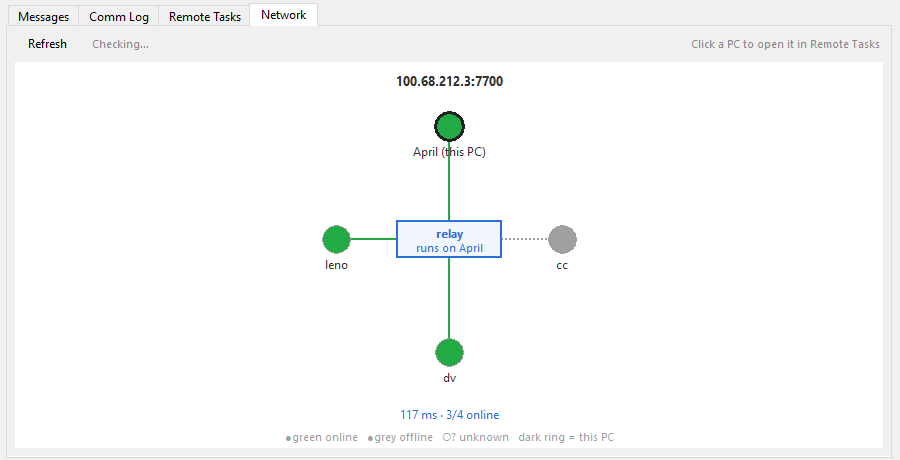
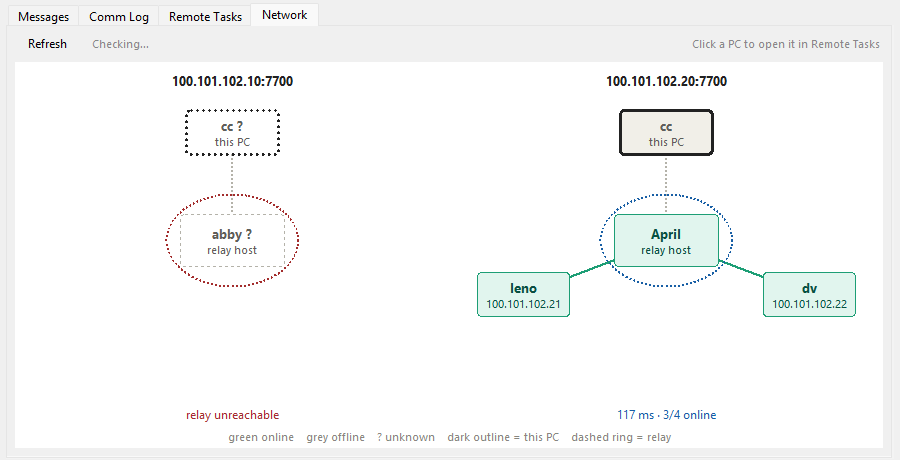
feat(tray): draw the relay's host PC once, in the middle of the Network tab
The relay is a program on one of the peers, so that PC now sits in the centre,
labelled relay host and circled by a dashed relay ring, instead of a separate relay
box plus the same PC again in the ring. Nodes are rounded cards on an oval ring.
Docs and screenshot updated; the screenshot uses placeholder IPs.

Also give the tray its own AppUserModelID, so the taskbar shows the Herald icon
instead of pythonw.exe's Python icon.

diff --git a/herald_tray.py b/herald_tray.py
@@ -103,6 +103,28 @@ def relay_host(net: dict, probe: dict, ips: dict) -> str | None:
     return next((peer for peer, addr in ips.items() if addr == ip), None)
 
 
+# Network tab palette: (fill, outline, text) per node state
+NODE = {"online": ("#E1F5EE", "#1D9E75", "#085041"),
+        "offline": ("#F1EFE8", "#B4B2A9", "#5F5E5A"),
+        "unknown": ("#FFFFFF", "#B4B2A9", "#5F5E5A")}
+INK, MUTED, RELAY, DOWN = "#222222", "#888780", "#185FA5", "#A32D2D"
+
+
+def split_members(net: dict, host_pc: str | None) -> tuple:
+    """(center, around): the relay host sits in the middle and is not drawn again in the ring."""
+    members = [net["name"]] + [p for p in net.get("peers", []) if p != net["name"]]
+    if not host_pc:
+        return None, members
+    return host_pc, [p for p in members if p != host_pc]
+
+
+def round_rect(c, x0, y0, x1, y1, r, **kw):
+    """Rounded rectangle on a tk Canvas (smoothed polygon; tk has no native one)."""
+    pts = [x0 + r, y0, x1 - r, y0, x1, y0, x1, y0 + r, x1, y1 - r, x1, y1,
+           x1 - r, y1, x0 + r, y1, x0, y1, x0, y1 - r, x0, y0 + r, x0, y0]
+    return c.create_polygon(pts, smooth=True, **kw)
+
+
 def node_state(peer: str, probe: dict) -> str:
     """online / offline from the relay's subscriber list; unknown when the relay can't tell us."""
     if probe["online"] is None:
@@ -204,11 +226,17 @@ class HeraldWindow:
         self.msg_queue = msg_queue
         self.project_dir = str(Path(__file__).parent)
 
+        # Own taskbar identity: without it Windows groups the window under pythonw.exe and shows Python's icon.
+        try:
+            import ctypes
+            ctypes.windll.shell32.SetCurrentProcessExplicitAppUserModelID("Herald.Tray")
+        except (AttributeError, OSError):
+            pass
         self.root = tk.Tk()
         self.root.title(f"Herald — {self.peer_name}")
         _ico = Path(__file__).parent / "img" / "logo.ico"
         if _ico.exists():
-            self.root.iconbitmap(str(_ico))
+            self.root.iconbitmap(default=str(_ico))   # default= also covers the taskbar's large icon
         self.root.geometry("720x520")
         self.root.minsize(600, 400)
         self.root.protocol("WM_DELETE_WINDOW", self.hide)
@@ -486,57 +514,65 @@ class HeraldWindow:
         if not self._net_probes or w < 50:
             return
         col = w / len(self._net_probes)
-        ring = max(40, min(col * 0.32, (h - 160) / 2))   # leaves room for labels + status line
+        # an oval ring: wider than tall, so side nodes clear the relay ring around the center
+        rx, ry = max(100, min(col * 0.38, 220)), max(60, (h - 170) / 2)
         ips = self.cfg.get("ips", {})
-        green, grey, red, blue, text = "#22aa44", "#a0a0a0", "#cc3333", "#2a6fdb", "#333333"
 
         for i, (net, probe) in enumerate(self._net_probes):
-            cx, cy = col * i + col / 2, 64 + ring
-            host = net["server_url"].split("//")[-1]
-            c.create_text(cx, 18, text=host, fill=text, font=("Segoe UI", 10, "bold"))
-            members = [net["name"]] + [p for p in net.get("peers", []) if p != net["name"]]
-
-            for j, peer in enumerate(members):
-                a = 2 * math.pi * j / len(members) - math.pi / 2
-                x, y = cx + ring * math.cos(a), cy + ring * math.sin(a)
-                state = node_state(peer, probe)
-                c.create_line(cx, cy, x, y, fill=green if state == "online" else grey,
-                              dash=() if state == "online" else (3, 3), width=2)
-                tag = f"peer-{i}-{j}"
-                c.create_oval(x - 14, y - 14, x + 14, y + 14, tags=tag,
-                              fill={"online": green, "offline": grey}.get(state, "#ffffff"),
-                              outline="#222222" if peer == net["name"] else grey,
-                              width=3 if peer == net["name"] else 1)
-                if state == "unknown":
-                    c.create_text(x, y, text="?", fill=grey, font=("Segoe UI", 10, "bold"), tags=tag)
-                label = peer + (" (this PC)" if peer == net["name"] else "")
-                c.create_text(x, y + 25, text=label, fill=text, font=("Segoe UI", 9), tags=tag)
-                if ips.get(peer):
-                    c.create_text(x, y + 39, text=ips[peer], fill=grey, font=("Consolas", 8), tags=tag)
-                if peer != net["name"]:
-                    c.tag_bind(tag, "<Button-1>", lambda e, p=peer: self._open_in_tasks(p))
-                    c.tag_bind(tag, "<Enter>", lambda e: c.config(cursor="hand2"))
-                    c.tag_bind(tag, "<Leave>", lambda e: c.config(cursor=""))
-
-            # relay box goes on top of the spokes
-            # the relay is a program on one of the peers, not a separate box: name its host
-            colr = blue if probe["up"] else red
+            cx, cy = col * i + col / 2, 70 + ry
+            c.create_text(cx, 18, text=net["server_url"].split("//")[-1], fill=INK, font=("Segoe UI", 10, "bold"))
             host_pc = relay_host(net, probe, ips)
-            c.create_rectangle(cx - 52, cy - 18, cx + 52, cy + 18, fill="#f2f6fc", outline=colr,
-                               width=2, dash=() if probe["up"] else (4, 3))
-            c.create_text(cx, cy - (6 if host_pc else 0), text="relay", fill=colr, font=("Segoe UI", 9, "bold"))
-            if host_pc:
-                c.create_text(cx, cy + 8, text=f"runs on {host_pc}", fill=colr, font=("Segoe UI", 8))
+            center, around = split_members(net, host_pc)
+            relay_col = RELAY if probe["up"] else DOWN
+
+            for j, peer in enumerate(around):
+                a = 2 * math.pi * j / len(around) - math.pi / 2
+                x, y = cx + rx * math.cos(a), cy + ry * math.sin(a)
+                online = node_state(peer, probe) == "online"
+                c.create_line(cx, cy, x, y, fill=NODE["online"][1] if online else NODE["offline"][1],
+                              dash=() if online else (4, 4), width=2 if online else 1.5)
+            for j, peer in enumerate(around):
+                a = 2 * math.pi * j / len(around) - math.pi / 2
+                self._draw_node(c, cx + rx * math.cos(a), cy + ry * math.sin(a), peer, net, probe,
+                                ips.get(peer, ""), f"peer-{i}-{j}")
+
+            if center:
+                # the relay is a program on this PC, so the PC itself sits in the middle, ringed by the relay
+                c.create_oval(cx - 66, cy - 46, cx + 66, cy + 46, outline=relay_col, width=1.5, dash=(3, 3))
+                self._draw_node(c, cx, cy, center, net, probe, "relay host", f"host-{i}", big=True)
+            else:   # host unknown: say only that a relay is there
+                c.create_rectangle(cx - 40, cy - 16, cx + 40, cy + 16, fill="#ffffff", outline=relay_col,
+                                   width=2, dash=() if probe["up"] else (4, 3))
+                c.create_text(cx, cy, text="relay", fill=relay_col, font=("Segoe UI", 9, "bold"))
+
+            everyone = ([center] if center else []) + around
             if not probe["up"]:
                 status = "relay unreachable"
             elif probe["online"] is None:
                 status = f"{probe['ms']} ms · old relay, no peer list"
             else:
-                status = f"{probe['ms']} ms · {sum(p in probe['online'] for p in members)}/{len(members)} online"
-            c.create_text(cx, h - 34, text=status, fill=colr, font=("Segoe UI", 9))
+                status = f"{probe['ms']} ms · {sum(p in probe['online'] for p in everyone)}/{len(everyone)} online"
+            c.create_text(cx, h - 34, text=status, fill=relay_col, font=("Segoe UI", 9))
 
-        c.create_text(w / 2, h - 12, fill=grey, font=("Segoe UI", 8),
-                      text="●green online   ●grey offline   ○? unknown   dark ring = this PC")
+        c.create_text(w / 2, h - 12, fill=MUTED, font=("Segoe UI", 8),
+                      text="green online    grey offline    ? unknown    dark outline = this PC    dashed ring = relay")
+
+    def _draw_node(self, c, x, y, peer, net, probe, sub, tag, big=False):
+        state = node_state(peer, probe)
+        fill, edge, ink = NODE[state]
+        me = peer == net["name"]
+        hw, hh = (52, 26) if big else (46, 22)
+        round_rect(c, x - hw, y - hh, x + hw, y + hh, 9, tags=tag, fill=fill,
+                   outline=INK if me else edge, width=2.5 if me else 1, dash=(4, 3) if state == "unknown" else ())
+        name = peer + (" ?" if state == "unknown" else "")
+        sub = "this PC" if me and not big else (f"{sub} · this PC" if me else sub)
+        c.create_text(x, y - (7 if sub else 0), text=name, fill=ink, font=("Segoe UI", 10, "bold"), tags=tag)
+        if sub:
+            c.create_text(x, y + 9, text=sub, fill=ink, font=("Segoe UI", 8), tags=tag)
+        if not me:
+            c.tag_bind(tag, "<Button-1>", lambda e, p=peer: self._open_in_tasks(p))
+            c.tag_bind(tag, "<Enter>", lambda e: c.config(cursor="hand2"))
+            c.tag_bind(tag, "<Leave>", lambda e: c.config(cursor=""))
 
     def _open_in_tasks(self, peer: str):
         self._tasks_peer.set(peer)

diff --git a/test_networks.py b/test_networks.py
@@ -52,5 +52,10 @@ assert down == {"up": False, "ms": None, "online": None, "host": None}
 net = {"server_url": "http://100.104.102.15:7700"}
 assert herald_tray.relay_host(net, down, {"abby": "100.104.102.15"}) == "abby"       # down: IP lookup
 assert herald_tray.relay_host(net, down, {}) is None
+# The relay host is drawn once, in the middle, never again in the ring.
+april = {"name": "cc", "peers": ["April", "leno", "dv"]}
+assert herald_tray.split_members(april, "April") == ("April", ["cc", "leno", "dv"])
+assert herald_tray.split_members({"name": "April", "peers": ["cc"]}, "April") == ("April", ["cc"])
+assert herald_tray.split_members(april, None) == (None, ["cc", "April", "leno", "dv"])
 
 print("ok")

diff --git a/docs/system-tray-ui.md b/docs/system-tray-ui.md
@@ -18,16 +18,17 @@
 
 ![Network tab](img/network-tab.png)
 
-Each relay in `config.json` (the top level plus every entry under `networks`) gets its own star diagram, with the relay in the middle and that network's peers around it.
+Each relay in `config.json` (the top level plus every entry under `networks`) gets its own diagram. The relay is a program running on one of the PCs, so that PC sits in the middle, labelled **relay host** and circled by a dashed ring; the network's other PCs are placed around it. The host appears only once.
 
 | Mark | Meaning |
 |------|---------|
-| Green dot, solid line | Online: the peer's tray holds a live connection to this relay |
-| Grey dot, dotted line | Offline: no tray connected from that PC |
-| Hollow dot with `?` | Unknown: the relay is unreachable, or runs an older `server.py` that does not report who is online |
-| Dark ring | This PC |
-| Blue box, "runs on X" | The relay is up; X is the PC that hosts it |
-| Red dashed box | The relay cannot be reached |
+| Green box, solid line | Online: the PC's tray holds a live connection to this relay |
+| Grey box, dashed line | Offline: no tray connected from that PC |
+| White dashed box, name with `?` | Unknown: the relay is unreachable, or runs an older `server.py` that does not report who is online |
+| Dark outline | This PC |
+| Blue dashed ring | The relay is up, running on the PC inside the ring |
+| Red dashed ring | The relay cannot be reached |
+| Plain "relay" box in the middle | The relay's host PC could not be identified (see [Showing IP addresses](#showing-ip-addresses)) |
 
 Below each diagram: the round-trip time to the relay and how many of its peers are online.
 
@@ -38,7 +39,7 @@ Below each diagram: the round-trip time to the relay and how many of its peers a
 
 ### Showing IP addresses
 
-Add an optional `ips` map to `config.json` to print each peer's address under its dot. It also lets the tab name the host of a relay that is down, by matching the relay URL's IP:
+Add an optional `ips` map to `config.json` to print each peer's address under its name. It also lets the tab name the host of a relay that is down, by matching the relay URL's IP:
 
 ```json
 "ips": {

diff --git a/README.md b/README.md
@@ -240,7 +240,7 @@ Restart Claude Code (or Antigravity) so it loads the Herald tools.
 ### Check That It Works
 
 - A Herald icon is in the Windows system tray of every PC. Open it, go to the **Network** tab: each PC
-  that is running should be a green dot (see [System Tray UI](docs/system-tray-ui.md)).
+  that is running should be a green box (see [System Tray UI](docs/system-tray-ui.md)).
 - From a controller PC, ask the AI: *"Use exec_shell to run `hostname` on leno."* It should answer with
   that PC's computer name.
 - For a PC with Claude Code and **Auto Reply** on: *"Use ask_peer to ask leno what day it is."* Its Claude
